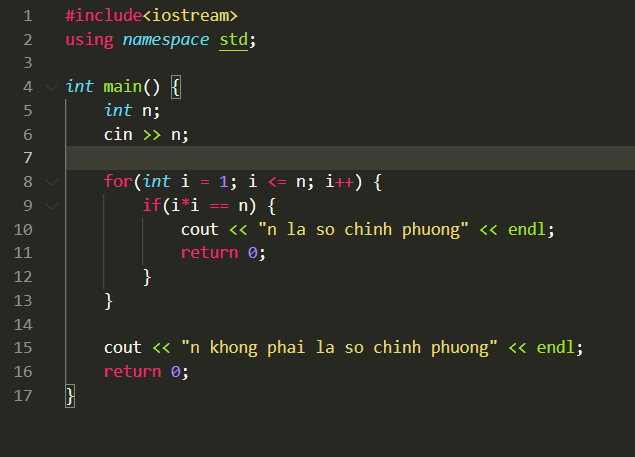
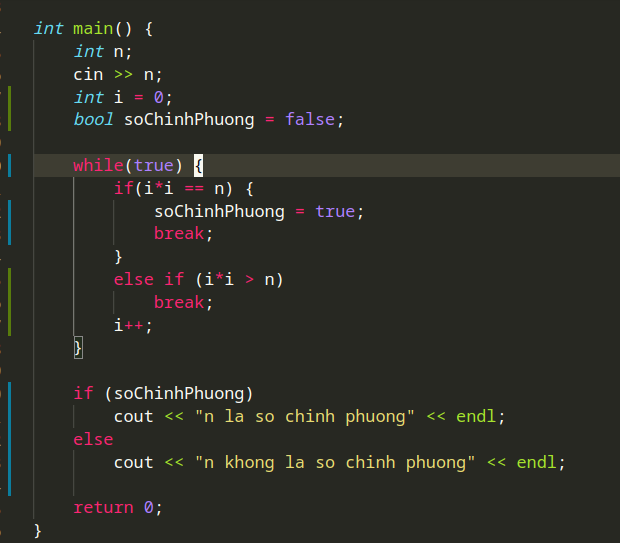
final adjustment

diff --git a/code/bai9.cc b/code/bai9.cc
@@ -4,14 +4,23 @@ using namespace std;
 int main() {
     int n;
     cin >> n;
+    int i = 0;
+    bool soChinhPhuong = false;
 
-    for(int i = 1; i <= n; i++) {
+    while(true) {
         if(i*i == n) {
-            cout << "n la so chinh phuong" << endl;
-            return 0;
+            soChinhPhuong = true;
+            break;
         }
+        else if (i*i > n) 
+            break;
+        i++;
     }
 
-    cout << "n khong phai la so chinh phuong" << endl;
+    if (soChinhPhuong) 
+        cout << "n la so chinh phuong" << endl;
+    else 
+        cout << "n khong la so chinh phuong" << endl;
+
     return 0;
 }

diff --git a/code/bai5.cc b/code/bai5.cc
@@ -6,7 +6,6 @@ int main() {
     int x, n;
     cin >> x >> n;
     float s = sqrt(x);
-
     for(int i = 2; i <= n; i++) {
         x *= x;
         s = sqrt(x + s);

diff --git a/write_up/codeluudothuattoan.md b/write_up/codeluudothuattoan.md
@@ -82,10 +82,13 @@ cmath: chứa những hàm toán học dùng để sử dụng tính toán.
 
 #### Bài 9: 
 *Đề bài:*
-
 ![debailuudo9](../images/luudo/debailuudo9.png)
 
 *Bài giải:*
+
+```
+sử dụng một cờ hiệu (flag) soChinhPhuong để xác định liệu số có phải số chính phương hay không
+```
 
 ![bai9.png](../images/codeluudo/bai9.png)
 
